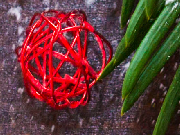
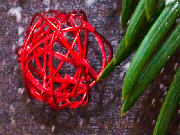
🐛 Fix rounding error in nearest-neighbor algorithm

diff --git a/index.js b/index.js
@@ -5,8 +5,8 @@ function nearestNeighbor (src, dst) {
 
   for (let y = 0; y < dst.height; y++) {
     for (let x = 0; x < dst.width; x++) {
-      const srcX = Math.round(x * src.width / dst.width)
-      const srcY = Math.round(y * src.height / dst.height)
+      const srcX = Math.floor(x * src.width / dst.width)
+      const srcY = Math.floor(y * src.height / dst.height)
 
       let srcPos = ((srcY * src.width) + srcX) * 4
 
